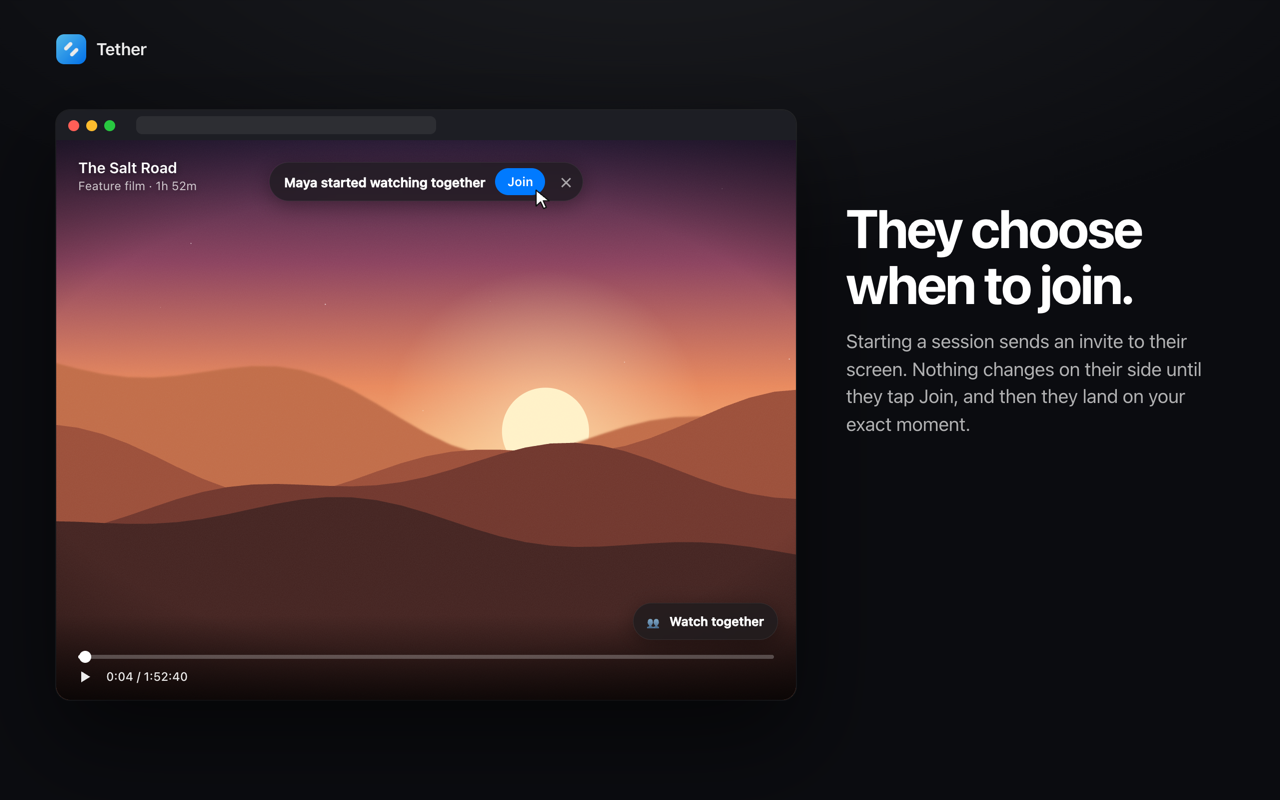
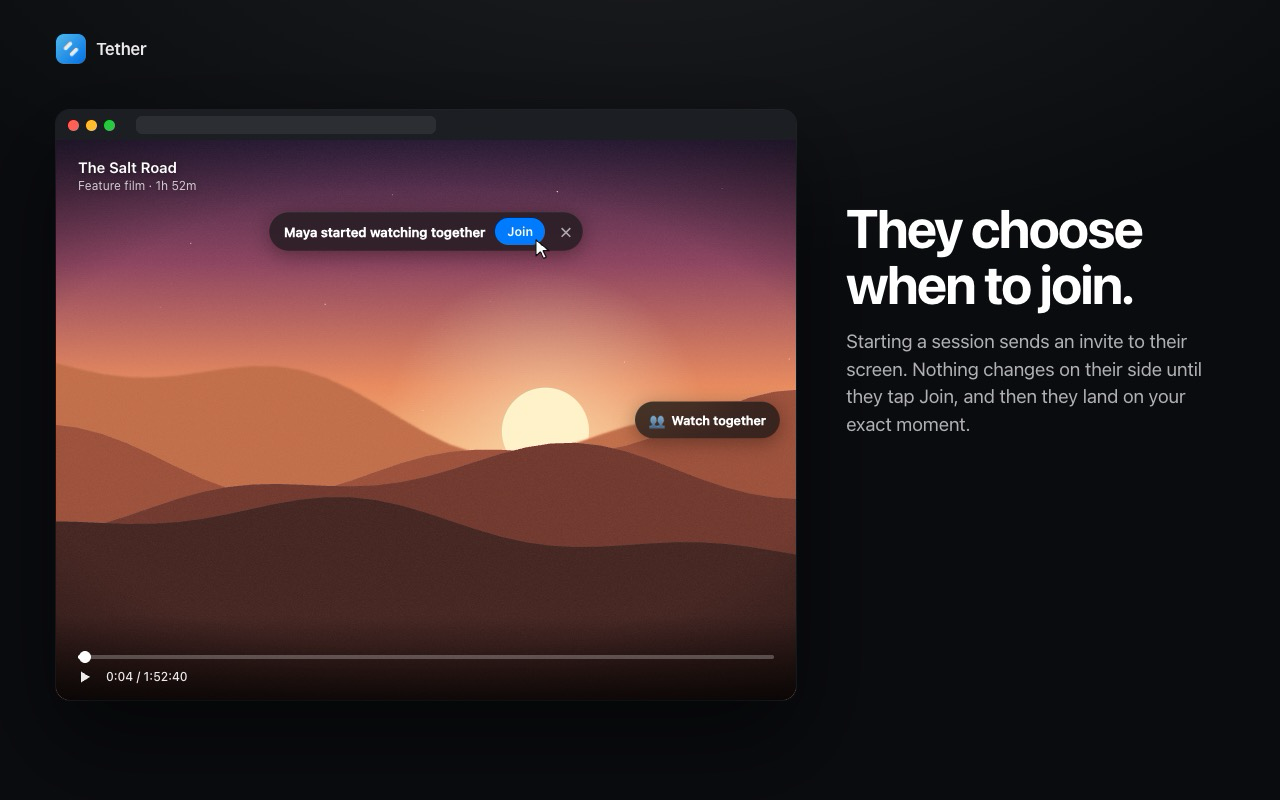
Store screenshots: show Tether's controls at the middle of the right edge

diff --git a/store/screenshots/src/shots.html b/store/screenshots/src/shots.html
@@ -79,9 +79,12 @@ function win({ x, y, w, h, scene, title, ep, time, total, pct, paused, inner = '
       ${inner}
     </div></div>`;
 }
-const controls = (r, b, open) => `<div style="position:absolute;right:${r}px;bottom:${b}px;display:flex;gap:6px;align-items:center">
-  ${open ? '<div style="display:flex;gap:4px">' + ['❤','😂','😮','👏','😢'].map(e => `<div class="round glass">${e}</div>`).join('') + '</div>' : ''}
+// Tether's buttons sit halfway down the right edge, clear of every player's
+// own controls (see site-common.js): chat and reactions stacked, the status
+// pill just above them.
+const controls = (r = 16) => `<div style="position:absolute;right:${r}px;top:50%;transform:translateY(-50%);display:flex;flex-direction:column;gap:6px">
   <div class="round glass">🙂</div><div class="round glass">💬</div></div>`;
+const status = (text, r = 16) => `<div class="pill glass" style="right:${r}px;bottom:calc(50% + 45px)"><span class="dot"></span>${text}</div>`;
 const cursor = (x, y) => `<svg class="cursor" style="left:${x}px;top:${y}px" viewBox="0 0 22 22"><path d="M4 2 L4 18 L8.5 13.8 L11.6 20.4 L14.3 19.2 L11.2 12.7 L17.2 12.7 Z" fill="#fff" stroke="#111" stroke-width="1.2" stroke-linejoin="round"/></svg>`;
 
 const shots = {
@@ -91,10 +94,10 @@ const shots = {
       <div class="sub">Pause, skip, or rewind on either side, and the other screen follows within a fraction of a second.</div>
     </div>
     ${win({ x: 56, y: 290, w: 560, h: 315, scene: 'dusk', title: 'Halcyon Ridge', ep: 'S1 · E3 “Ember”', time: '42:18', total: '58:03', pct: 73,
-      inner: `<div class="pill glass" style="right:16px;bottom:58px"><span class="dot"></span>In sync with Sam</div>` })}
+      inner: status('In sync with Sam') + controls() })}
     ${win({ x: 664, y: 290, w: 560, h: 315, scene: 'dusk', title: 'Halcyon Ridge', ep: 'S1 · E3 “Ember”', time: '42:18', total: '58:03', pct: 73,
-      inner: `<div class="pill glass" style="right:16px;bottom:58px"><span class="dot"></span>In sync with Maya</div>` })}
-    <div class="pill glass" style="left:50%;top:432px;transform:translateX(-50%);padding:9px 15px;font-size:13px;z-index:2"><span class="dot"></span>0.03s apart</div>
+      inner: status('In sync with Maya') + controls() })}
+    <div class="pill glass" style="left:50%;top:530px;transform:translateX(-50%);padding:9px 15px;font-size:13px;z-index:2"><span class="dot"></span>0.03s apart</div>
     <div class="label" style="left:58px;top:644px"><b>Maya</b> · Lisbon, 9:41 PM</div>
     <div class="label" style="left:666px;top:644px"><b>Sam</b> · Toronto, 4:41 PM</div>`,
 
@@ -105,7 +108,7 @@ const shots = {
     </div>
     ${win({ x: 486, y: 110, w: 740, h: 560, scene: 'aurora', title: 'Northline', ep: 'S2 · E1 “First Light”', time: '18:52', total: '47:10', pct: 40,
       inner: `
-      <div class="chat glass" style="right:18px;bottom:104px">
+      <div class="chat glass" style="right:60px;top:50%;transform:translateY(-50%)">
         <div class="head"><span>Chat</span><span>End session ✕</span></div>
         <div class="log">
           <div class="name">Sam</div>
@@ -117,18 +120,18 @@ const shots = {
         </div>
         <div class="in"><div>Message</div><div>Send</div></div>
       </div>
-      ${controls(18, 60, true)}
-      <div class="float" style="right:336px;bottom:150px;opacity:0.95">❤</div>
-      <div class="float" style="right:366px;bottom:214px;opacity:0.72;font-size:26px">❤</div>
-      <div class="float" style="right:322px;bottom:272px;opacity:0.45;font-size:24px">😂</div>
-      <div class="float" style="right:352px;bottom:330px;opacity:0.22;font-size:22px">❤</div>` })}`,
+      ${controls()}
+      <div class="float" style="right:358px;top:250px;opacity:0.95">❤</div>
+      <div class="float" style="right:388px;top:190px;opacity:0.72;font-size:26px">❤</div>
+      <div class="float" style="right:350px;top:134px;opacity:0.45;font-size:24px">😂</div>
+      <div class="float" style="right:380px;top:80px;opacity:0.22;font-size:22px">❤</div>` })}`,
 
   3: () => `
     ${win({ x: 56, y: 110, w: 740, h: 560, scene: 'dunes', title: 'The Salt Road', ep: 'Feature film · 1h 52m', time: '0:04', total: '1:52:40', pct: 1, paused: true,
       inner: `
-      <div class="pill glass" style="left:50%;top:22px;transform:translateX(-50%);padding:6px 6px 6px 15px;gap:10px;font-size:13px">Maya started watching together <span class="btnblue">Join</span><span style="color:rgba(255,255,255,0.6);padding:0 6px">✕</span></div>
-      ${cursor(476, 48)}
-      <div class="pill glass" style="right:18px;bottom:60px;font-size:12.5px;gap:7px"><span style="font-size:13px">👥</span>Watch together</div>` })}
+      <div class="pill glass" style="left:50%;top:72px;transform:translateX(-50%);padding:6px 6px 6px 15px;gap:10px;font-size:13px">Maya started watching together <span class="btnblue">Join</span><span style="color:rgba(255,255,255,0.6);padding:0 6px">✕</span></div>
+      ${cursor(476, 98)}
+      <div class="pill glass" style="right:16px;top:50%;transform:translateY(-50%);font-size:12.5px;gap:7px"><span style="font-size:13px">👥</span>Watch together</div>` })}
     <div style="position:absolute;left:846px;top:200px;width:380px">
       <h1>They choose<br>when to join.</h1>
       <div class="sub">Starting a session sends an invite to their screen. Nothing changes on their side until they tap Join, and then they land on your exact moment.</div>
@@ -141,7 +144,7 @@ const shots = {
     </div>
     <div class="tile" style="left:56px;top:292px">
       <div class="mini">${scene('dusk')}<div class="pill glass" style="left:14px;top:14px;font-size:12px;background:rgba(255,204,0,0.92);color:#1c1c1e;box-shadow:none">Ad · 0:15</div>
-        <div class="pill glass" style="right:12px;bottom:12px;font-size:12px"><span class="dot" style="background:#0a84ff"></span>Rejoining Sam when the ad ends</div></div>
+        <div class="pill glass" style="right:12px;top:50%;transform:translateY(-50%);font-size:12px"><span class="dot" style="background:#0a84ff"></span>Rejoining Sam when the ad ends</div></div>
       <h3>Ad breaks don't split you up</h3><p>On plans with ads, Tether waits for your ad to end, then puts you back where Sam is.</p>
     </div>
     <div class="tile" style="left:456px;top:292px">
@@ -149,12 +152,12 @@ const shots = {
         <div style="position:absolute;left:14px;right:14px;top:14px;display:flex;gap:6px">
           <div style="height:26px;flex:1;border-radius:7px;background:rgba(255,255,255,0.12);font:500 11.5px var(--font);display:flex;align-items:center;padding:0 10px;color:rgba(255,255,255,0.6)">Recipes · new tab</div>
           <div style="height:26px;flex:1;border-radius:7px;background:rgba(255,255,255,0.26);font:600 11.5px var(--font);display:flex;align-items:center;padding:0 10px">▶ Northline</div></div>
-        <div class="pill glass" style="right:12px;bottom:12px;font-size:12px"><span class="dot"></span>Still playing in the other tab</div></div>
+        <div class="pill glass" style="right:12px;top:50%;transform:translateY(-50%);font-size:12px"><span class="dot"></span>Still playing in the other tab</div></div>
       <h3>Switch tabs, keep watching</h3><p>Reply to a message or look something up. The show keeps playing on both screens.</p>
     </div>
     <div class="tile" style="left:856px;top:292px">
       <div class="mini">${scene('dunes')}
-        <div style="position:absolute;left:0;right:0;top:16px;display:flex;flex-direction:column;align-items:center;gap:8px">
+        <div style="position:absolute;left:0;right:0;top:50px;display:flex;flex-direction:column;align-items:center;gap:8px">
           <div class="pill glass" style="position:static;font-size:12px">Sam paused</div>
           <div class="pill glass" style="position:static;font-size:12px">Sam skipped to 1:02:14</div>
           <div class="pill glass" style="position:static;font-size:12px;padding:5px 5px 5px 12px">Sam is watching something else <span class="btnblue" style="font-size:11.5px;padding:5px 10px">Join them</span></div></div></div>
